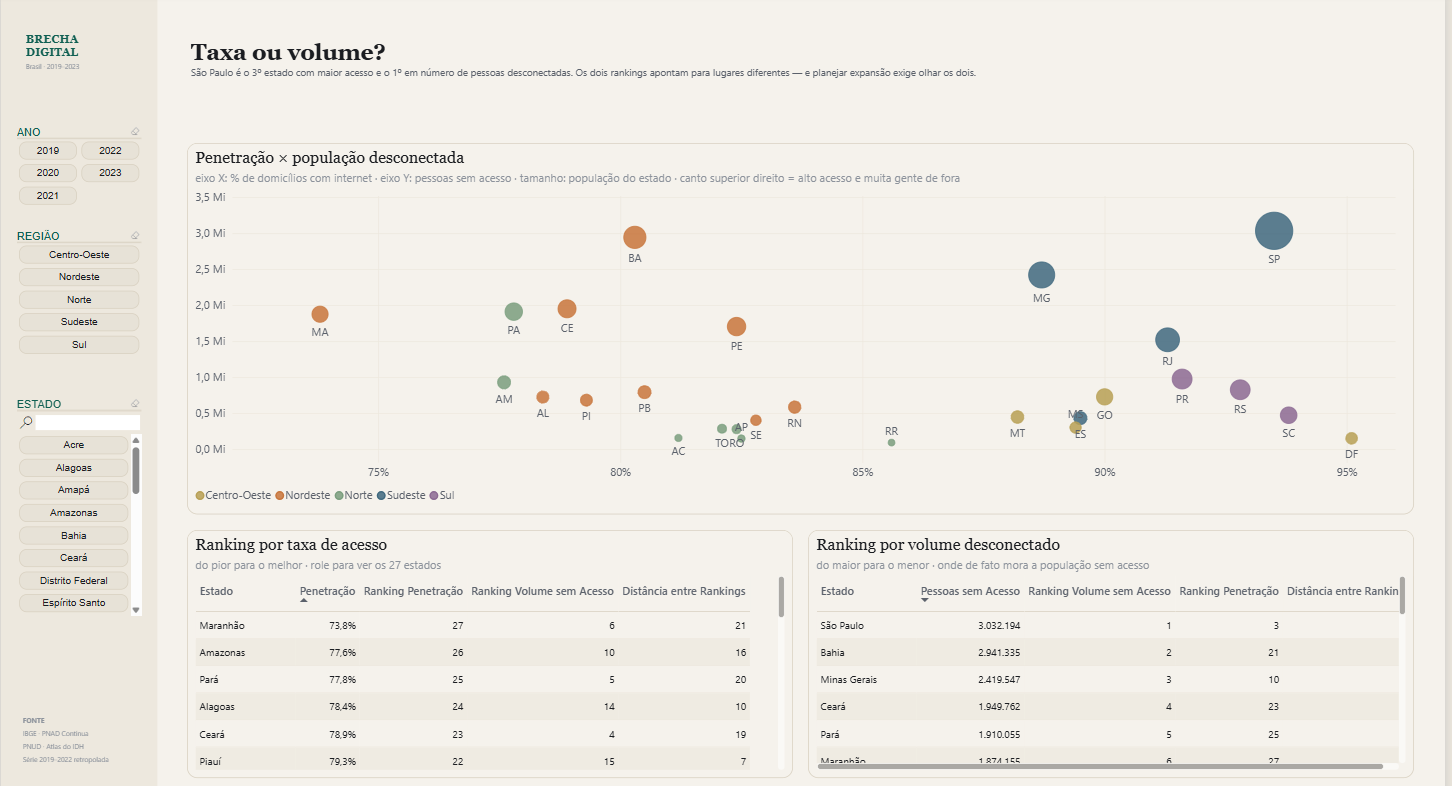
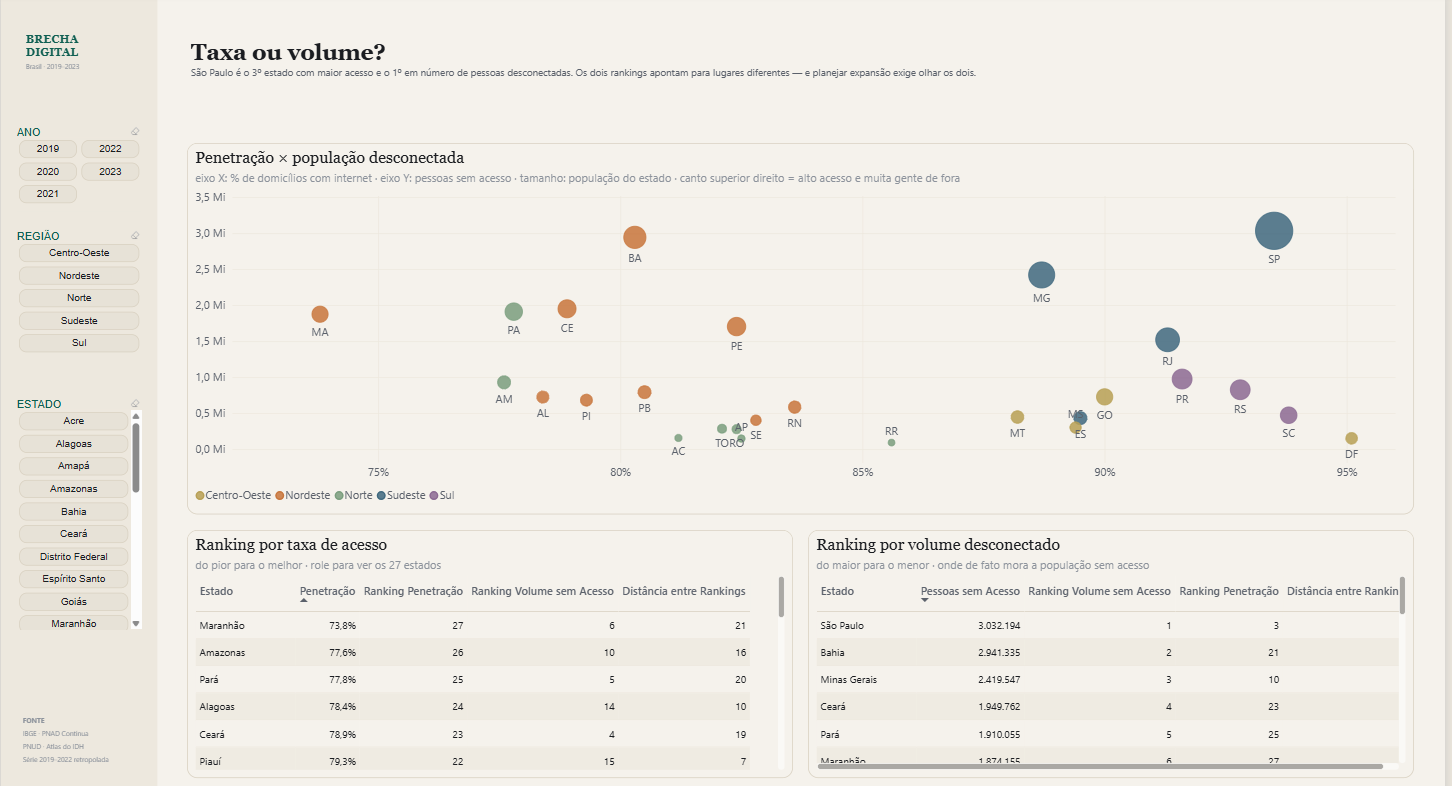
style: retoques finais na faixa de filtros
Tira o fio embaixo do titulo do filtro. Num filtro largo a regra corria a linha
inteira e passava a ler como um elemento solto sob o titulo — caixa alta na cor
de destaque ja identifica sem precisar do risco.

Larguras recalculadas pelo rotulo mais longo de cada campo: o Chiclet divide a
largura do visual pelo numero de colunas, entao "NAO IDENTIFICADA" em Operadora
e "Centro-Oeste" em Regiao passam a caber inteiros, sem truncar.

No digital_divide, o filtro de Estado perde a caixa de busca: o campo de
pesquisa do Chiclet vem com fundo branco fixo, que destoava do rail inteiro. Os
27 estados rolam dentro do proprio bloco, e o filtro de Regiao ja reduz a lista
antes disso.

Screenshots atualizados.

Changed region(s): [[0.0, 0.5191, 0.124, 0.7939], [0.031, 0.3053, 0.062, 0.4275], [0.062, 0.1832, 0.093, 0.2443]]

diff --git a/tools/build_report.py b/tools/build_report.py
@@ -523,7 +523,7 @@ def scatter(page: str, key: str, box, title: str, subtitle: str,
 
 
 def chiclet(page: str, key: str, box, label: str, entity: str, prop: str,
-            colunas: int, busca: bool = False) -> dict:
+            colunas: int) -> dict:
     """Chiclet Slicer no rail — cada valor vira um bloco clicavel.
 
     O visual nativo nao expoe cor de estado: selecionado e nao selecionado saem
@@ -543,14 +543,11 @@ def chiclet(page: str, key: str, box, label: str, entity: str, prop: str,
                 multiselect=lit(True),
                 showDisabled=lit("Inplace"),
                 forcedSelection=lit(False),
-                selfFilterEnabled=lit(busca),
             ),
             "header": obj(
                 show=lit(True), title=lit(label.upper()),
                 fontColor=solid(TEAL), background=solid(BG_RAIL),
-                textSize=lit(11),
-                outline=lit("BottomOnly"), outlineColor=solid(BORDER),
-                outlineWeight=lit(1),
+                textSize=lit(11), outline=lit("None"),
             ),
             "rows": obj(
                 fontColor=solid(INK), textSize=lit(10),
@@ -639,8 +636,11 @@ def chrome(page: str, titulo: str, lede: str, filtros: bool = True) -> list:
                          "Ano", "dim_periodo", "Ano", 2))
         v.append(chiclet(page, "slicer_Regiao", (16, 306, RAIL_W - 32, 212),
                          "Região", "dim_uf", "Região", 1))
-        v.append(chiclet(page, "slicer_Estado", (16, 530, RAIL_W - 32, 300),
-                         "Estado", "dim_uf", "Estado", 1, busca=True))
+        # Sem caixa de busca: o campo de pesquisa do Chiclet vem com fundo
+        # branco fixo, que destoa do rail. Os 27 estados rolam dentro do
+        # proprio bloco, e o filtro de Regiao ja reduz a lista antes disso.
+        v.append(chiclet(page, "slicer_Estado", (16, 530, RAIL_W - 32, 320),
+                         "Estado", "dim_uf", "Estado", 1))
     v.append(textbox(page, "fonte", (24, PAGE_H - 132, RAIL_W - 44, 100), [
         run("FONTE\n", 9, INK_DIM, bold=True),
         run("IBGE · PNAD Contínua\nPNUD · Atlas do IDH\nSérie 2019–2022 retropolada", 9, INK_DIM),
